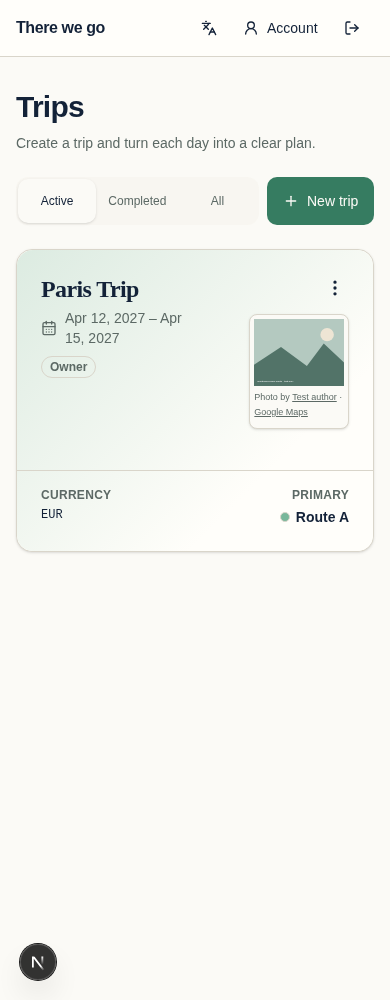
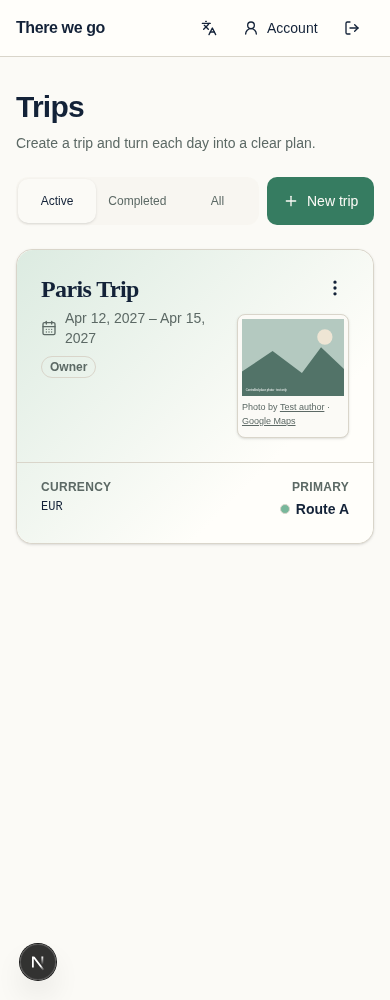
Keep town photos and complete credits beside trip card titles

diff --git a/src/features/trips/components/trip-card.tsx b/src/features/trips/components/trip-card.tsx
@@ -164,10 +164,9 @@ export function TripCard({
     <>
       <Card
         data-trip-card={trip.id}
-        className={`relative h-full [&:has(.trip-cover-photo_figure)_.trip-card-identity]:pr-[34%] [&:has(.trip-cover-photo_figure)_.trip-card-header]:min-h-[220px] transition-shadow focus-within:shadow-md hover:shadow-md ${status === "done" ? "bg-muted/40" : ""}`}
+        className={`relative h-full [&:has(.trip-cover-photo_figure)_.trip-card-identity]:pr-0 transition-shadow focus-within:shadow-md hover:shadow-md ${status === "done" ? "bg-muted/40" : ""}`}
       >
         <TripCardArt id={trip.id} cityName={trip.coverSource?.name} />
-        <TripCoverPhoto tripId={trip.id} source={trip.coverSource} />
         <Link
           className="absolute inset-0 z-0 rounded-xl focus-visible:outline-none focus-visible:ring-2 focus-visible:ring-ring"
           href={`/trips/${trip.id}`}
@@ -177,8 +176,8 @@ export function TripCard({
             {trip.title}
           </span>
         </Link>
-        <CardHeader className="trip-card-header relative pointer-events-none flex-row items-start justify-between gap-4">
-          <div className="trip-card-identity min-w-0 flex-1">
+        <CardHeader className="trip-card-header relative pointer-events-none grid grid-cols-[minmax(0,1fr)_auto] items-start gap-4">
+          <div className="trip-card-identity min-w-0 pr-10">
             <CardTitle className="break-words font-serif text-2xl leading-tight sm:text-3xl">
               {trip.title}
             </CardTitle>
@@ -196,11 +195,12 @@ export function TripCard({
               <T message={trip.role === "owner" ? "Owner" : "Collaborator"} />
             </p>
           </div>
+          <TripCoverPhoto tripId={trip.id} source={trip.coverSource} />
           <DropdownMenu>
             <DropdownMenuTrigger asChild>
               <Button
                 aria-label={t("Actions for {title}", { title: trip.title })}
-                className="pointer-events-auto relative z-10 -mr-2 -mt-2 size-11 shrink-0 px-0"
+                className="pointer-events-auto absolute right-4 top-4 z-10 size-11 shrink-0 px-0"
                 disabled={unavailable}
                 variant="ghost"
               >

diff --git a/src/features/trips/components/trip-cover-photo.tsx b/src/features/trips/components/trip-cover-photo.tsx
@@ -90,17 +90,21 @@ export function TripCoverPhoto({ tripId, source }: { tripId: string; source?: Tr
   return (
     <div
       ref={root}
-      className="trip-cover-photo pointer-events-none absolute right-6 top-16 w-[28%] max-w-40 min-w-0"
+      className={
+        photo
+          ? "trip-cover-photo pointer-events-none col-start-2 row-start-1 mt-10 w-28 min-w-0 sm:w-36"
+          : "trip-cover-photo-observer pointer-events-none absolute right-6 top-16 size-px"
+      }
     >
       {photo ? (
         <figure className="rounded-sm border bg-background p-1 shadow-sm">
           {/* eslint-disable-next-line @next/next/no-img-element -- retain natural provider pixels and aspect ratio. */}
           <img
-            className="block h-auto w-full object-contain"
+            className="mx-auto block h-auto max-h-40 w-auto max-w-full"
             alt={source.name}
             src={photo.displayUrl}
           />
-          <figcaption className="pointer-events-auto relative z-10 py-1 text-[9px] leading-relaxed text-muted-foreground">
+          <figcaption className="pointer-events-auto relative z-10 py-1 break-words text-[9px] leading-relaxed text-muted-foreground">
             {(photo.media.attributions ?? []).map((author, index) => (
               <span key={`${author.label}:${index}`}>
                 <T message="Photo by" />{" "}
